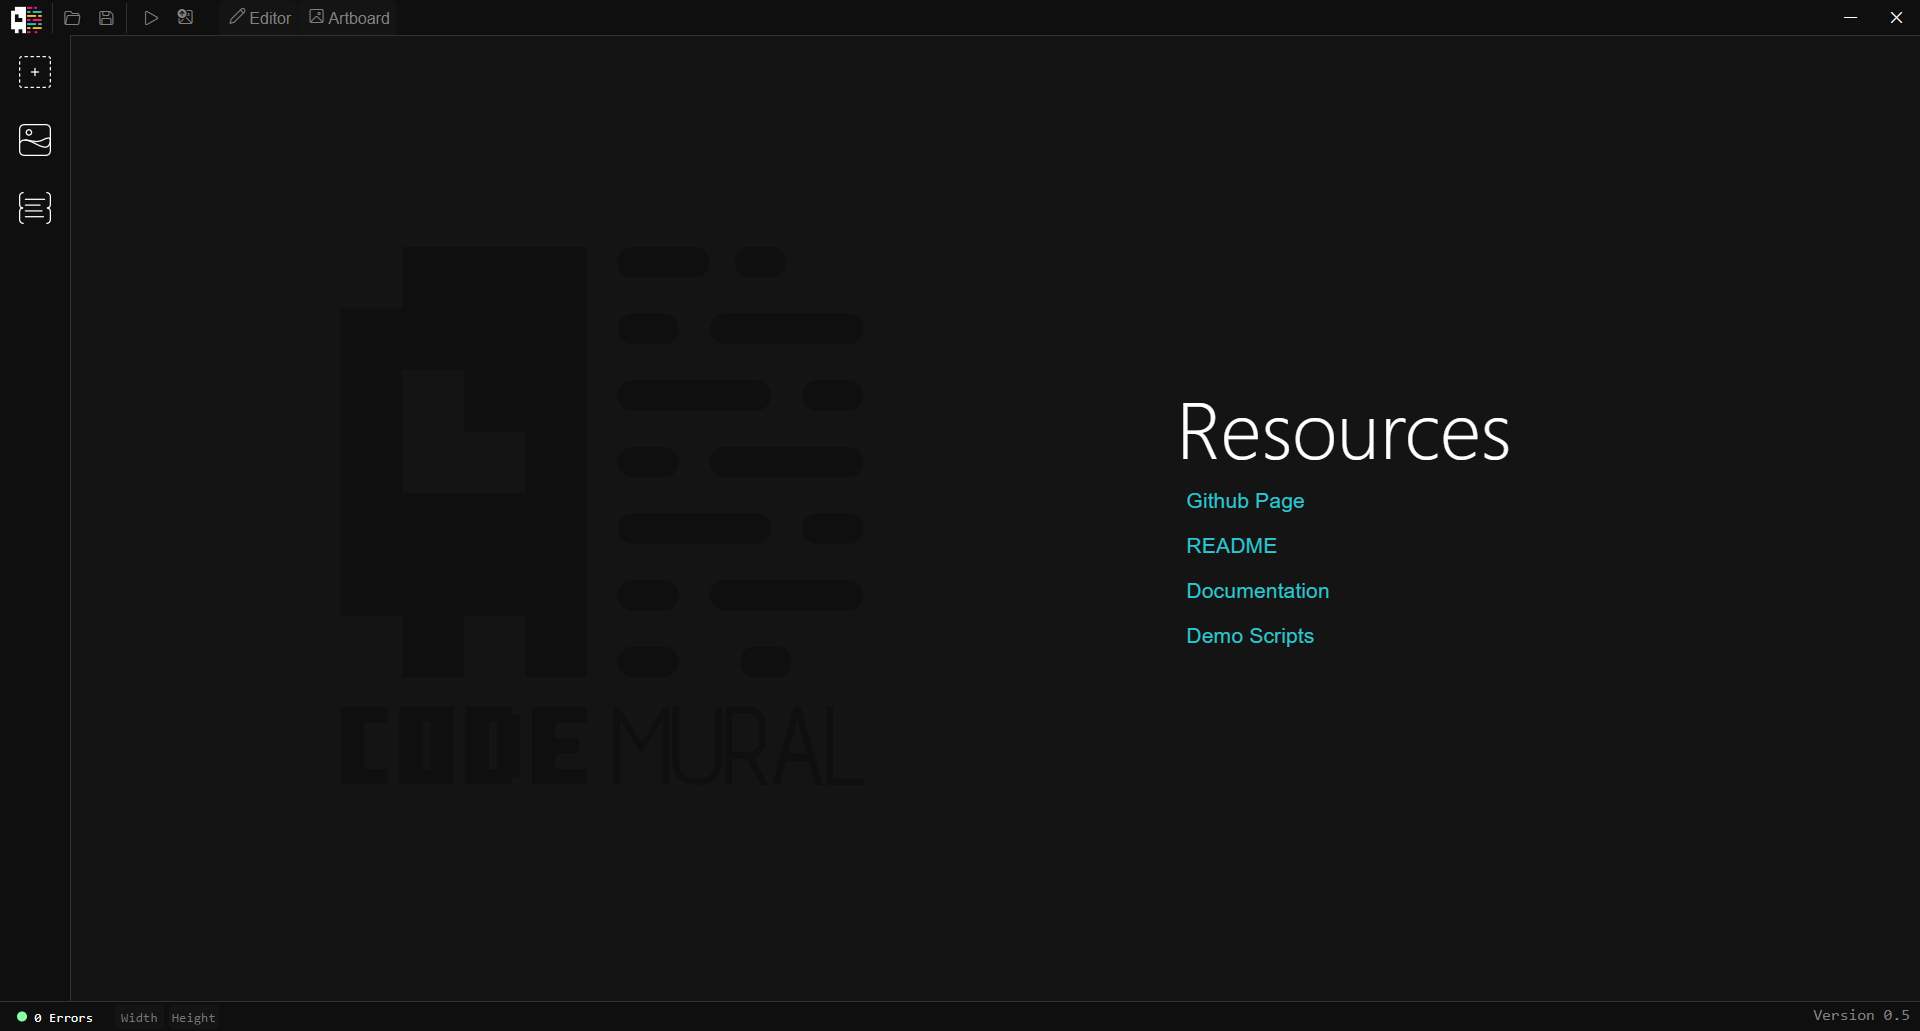
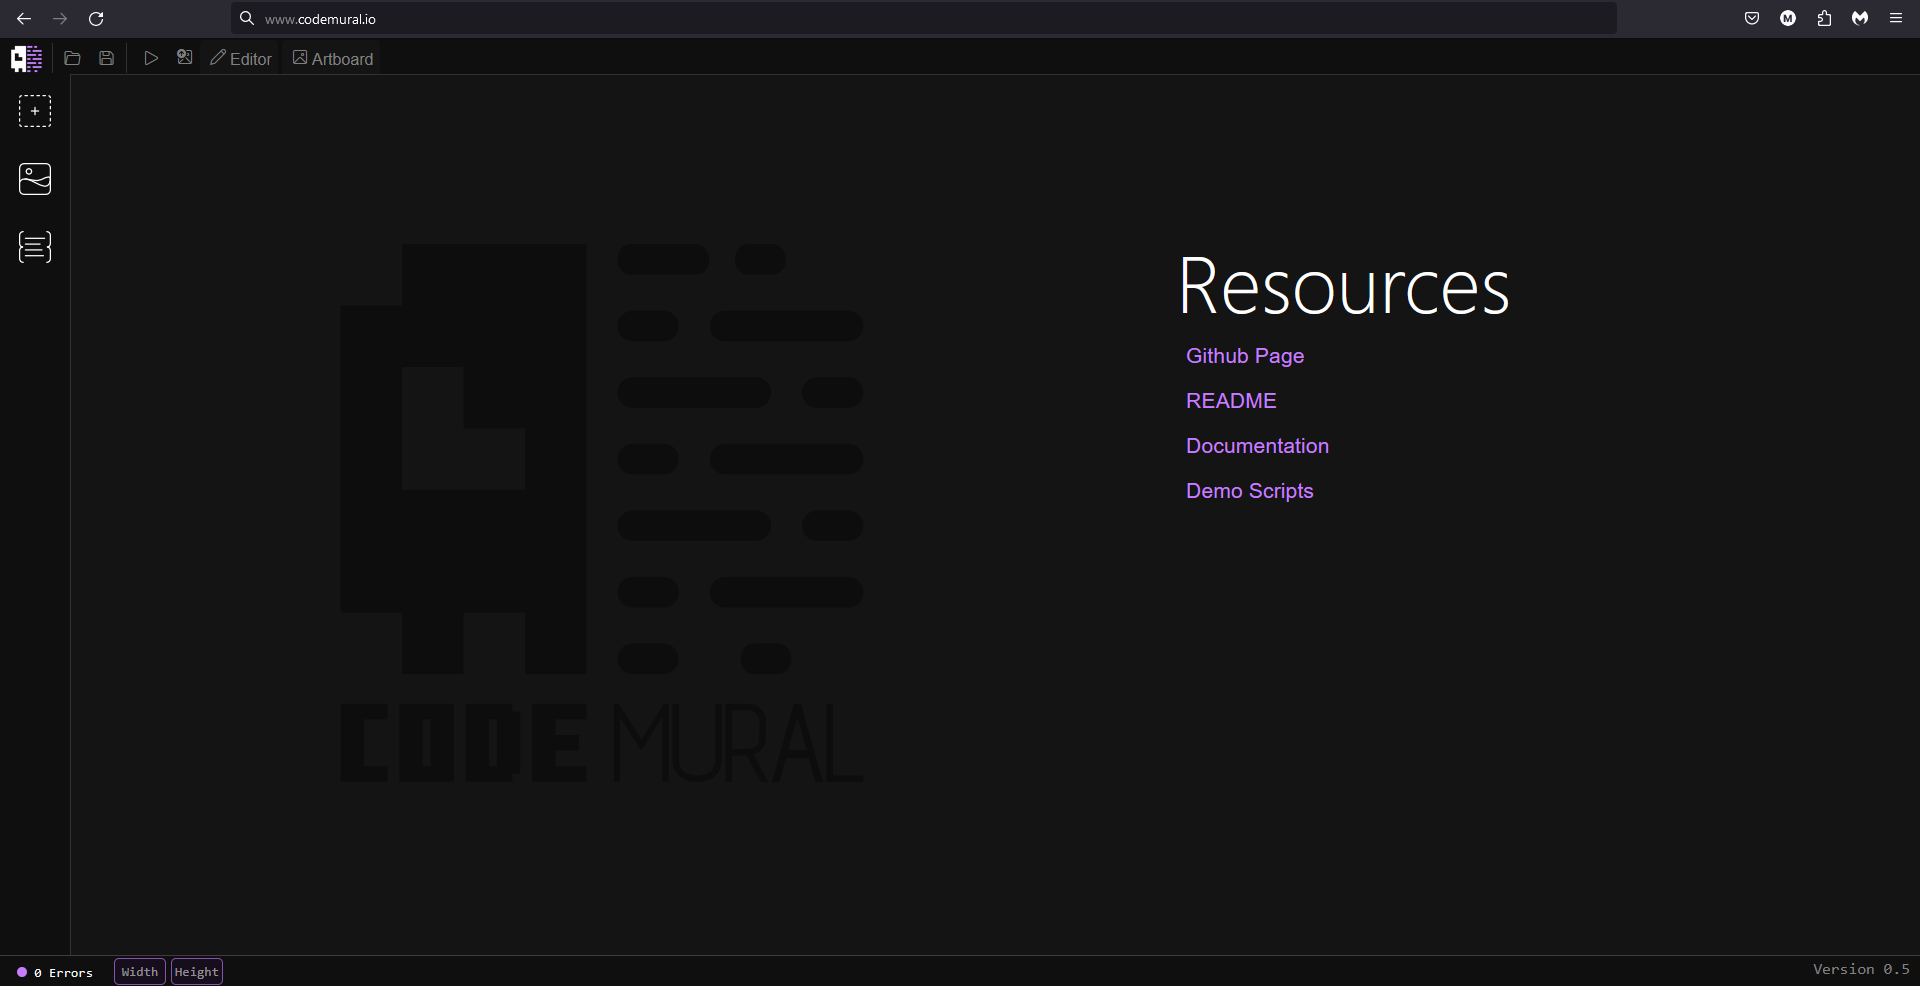
tweaked color scheme

diff --git a/logic.js b/logic.js
@@ -35,7 +35,7 @@ document.getElementById("run").addEventListener('click', function() {
   document.getElementById("logger").value = "";
 
   document.getElementById("error").innerHTML = '<span id="status"></span> ' + errs.length + ' Errors';
-  document.getElementById("status").style.background = "#5AFF83";
+  document.getElementById("status").style.background = "#C77DFF";
 
   navigator.clipboard.writeText(document.getElementById("editor").value);
   window.addEventListener("error", errorlog);
@@ -57,10 +57,10 @@ document.getElementById("run").addEventListener('click', function() {
 document.getElementById("edit").addEventListener('click', function() {
     if (x == 0) {
         document.getElementById("textcontainer").style.display = "block";
-        document.getElementById("edit").style.backgroundColor = "rgb(0, 200, 211)";
+        document.getElementById("edit").style.backgroundColor = "#C77DFF";
         document.getElementById("edit").style.color = "white";
         document.getElementById("filename").style.color = "white";
-        document.getElementById("header").style.borderBottom = "1px solid rgb(0, 200, 211)";
+        document.getElementById("header").style.borderBottom = "1px solid #C77DFF";
         x = 1;
 
         document.getElementById("canvasarea").style.display = "none";
@@ -82,10 +82,10 @@ document.getElementById("edit").addEventListener('click', function() {
 document.getElementById("view").addEventListener('click', function() {
   if (x2 == 0) {
       document.getElementById("canvasarea").style.display = "block";
-      document.getElementById("view").style.backgroundColor = "rgb(0, 200, 211)";
+      document.getElementById("view").style.backgroundColor = "#C77DFF";
       document.getElementById("view").style.color = "white";
       document.getElementById("filename2").style.color = "white";
-      document.getElementById("header").style.borderBottom = "1px solid rgb(0, 200, 211)";
+      document.getElementById("header").style.borderBottom = "1px solid #C77DFF";
       x2 = 1;
 
       document.getElementById("textcontainer").style.display = "none";

diff --git a/main.css b/main.css
@@ -122,7 +122,7 @@ header {
 }
 
 #open:hover {
-  color: rgb(0, 200, 211);
+  color: #C77DFF;
   cursor: pointer;
 }
 
@@ -144,7 +144,7 @@ header {
 }
 
 #save:hover {
-  color: rgb(0, 200, 211);
+  color: #C77DFF;
   cursor: pointer;
 }
 
@@ -165,7 +165,7 @@ header {
 }
 
 #run:hover {
-  color: rgb(0, 200, 211);
+  color: #C77DFF;
   cursor: pointer;
 }
 
@@ -244,7 +244,7 @@ header {
 }
 
 #capture:hover {
-  color: rgb(0, 200, 211);
+  color: #C77DFF;
   cursor: pointer;
 }
 
@@ -295,7 +295,7 @@ header {
   background-color: #0f0f0f;
   bottom: 0px;
   width: 100%;
-  border-top: 1px solid rgb(50, 50, 50);
+  border-top: 1px solid rgb(63, 59, 65);
 }
 
 #status {
@@ -304,7 +304,7 @@ header {
   height: 10px;
   position: relative;
   left: 0;
-  background-color: rgb(131, 255, 162);
+  background-color: #C77DFF;
   border: none;
   border-radius: 25px;
 }
@@ -363,8 +363,8 @@ header {
   width: 50px;
   height: 25px;
   transform: translate(0%, -50%);
-  background-color: #141414;
-  border: none;
+  background-color: #170e1d;
+  border: 1px solid #8554ac;
   border-radius: 5px;
   outline: none;
   text-align: center;
@@ -379,8 +379,8 @@ header {
   width: 50px;
   height: 25px;
   transform: translate(0%, -50%);
-  background-color: #141414;
-  border: none;
+  background-color: #170e1d;
+  border: 1px solid #8554ac;
   border-radius: 5px;
   outline: none;
   text-align: center;
@@ -491,7 +491,7 @@ li:hover {
 }
 
 a {
-  color: rgb(0, 200, 211);
+  color: #C77DFF;
   text-decoration: none;
   font-size: 16pt;
 }

diff --git a/codemural.html b/codemural.html
@@ -47,7 +47,7 @@
         <div class="welcome">
           <h2 class="contents">Resources</h2>
           <li class="outlink"><a href="https://github.com/MatthewZenn/CodeMural">Github Page</a></li>
-          <li class="outlink"><a href="https://github.com/MatthewZenn/CodeMural/blob/main/README.md">README</a></li>
+          <li class="outlink"><a href="https://github.com/MatthewZenn/CodeMural/blob/main/README.md">README.md</a></li>
           <li class="outlink"><a href="https://github.com/MatthewZenn/CodeMural/blob/main/Documentation.md">Documentation</a></li>
           <li class="outlink"><a href="https://github.com/MatthewZenn/CodeMural/tree/main/Demos">Demo Scripts</a></li>
         </div>
